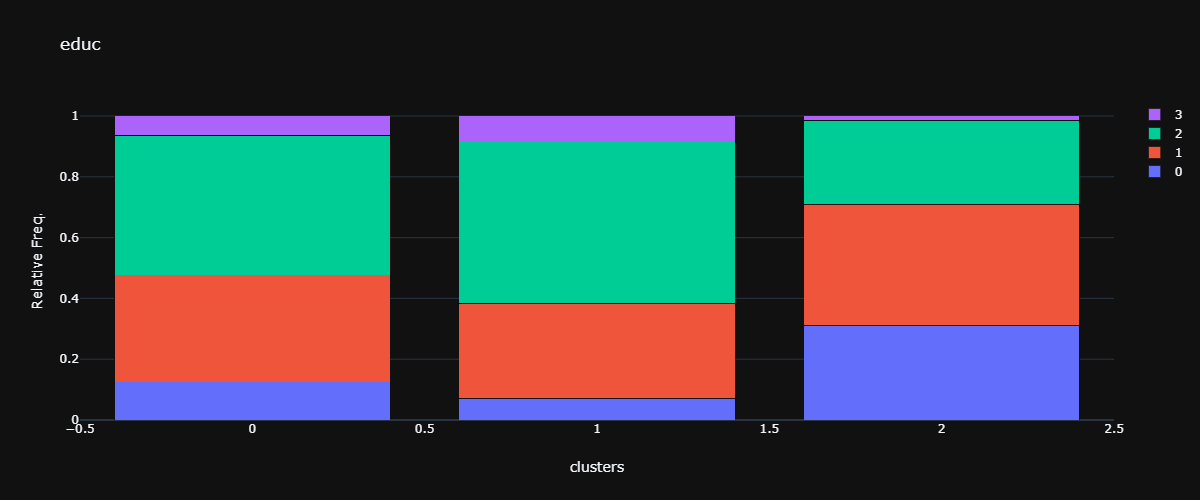
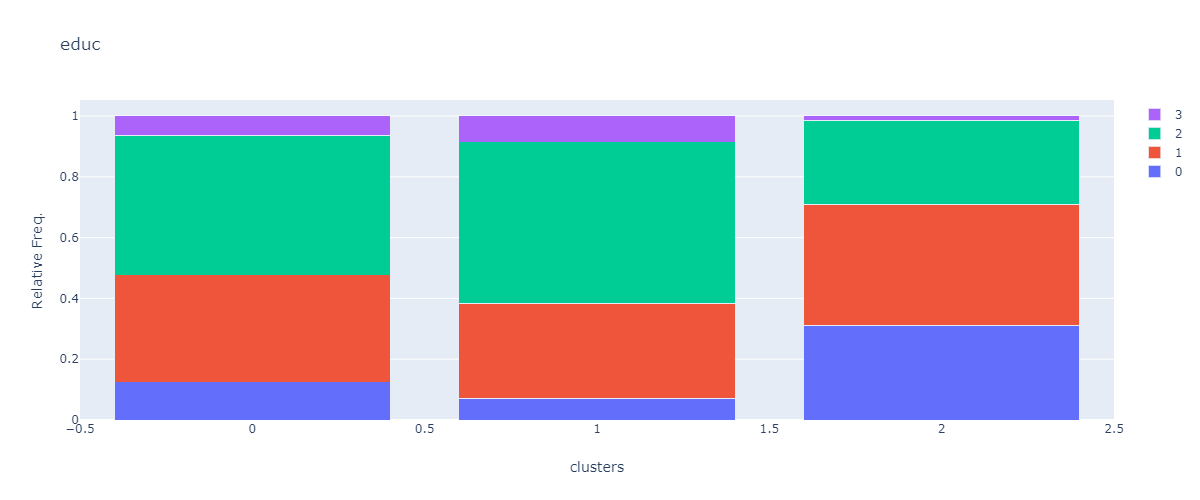
some graphical changes

diff --git a/profiling.py b/profiling.py
@@ -17,7 +17,9 @@ customer_related_cat = ['location','has_children', 'educ', 'cancelled_contracts'
 product_related_num = ["premium_motor","premium_household","premium_health","premium_life","premium_work_comp", "p_cluster"]
 
 customer_cluster = df[customer_related_num].groupby("c_cluster").mean()
+df["c_cluster"].value_counts()
 product_cluster = df[product_related_num].groupby("p_cluster").mean()
+df["p_cluster"].value_counts()
 #### Checking if clusters overlap
 ## create a table/Matrix
 cluster_matrix = pd.crosstab(df["p_cluster"], df["c_cluster"])
@@ -39,7 +41,7 @@ for i in df[categoricals]:
     for b in range(len(df[i].unique())):
         trace1 = go.Bar(x= df["c_cluster"].unique().sort(), y = (pd.crosstab(df[i], df["c_cluster"])/pd.crosstab(df[i], df["c_cluster"]).sum()).iloc[b,:], name = b) 
         data.append(trace1)
-    layout = go.Layout(title = i, template = "plotly_dark", xaxis=dict(title="clusters"), yaxis=dict(title="Relative Freq."))
+    layout = go.Layout(title = i, xaxis=dict(title="clusters"), yaxis=dict(title="Relative Freq."))
     fig = go.Figure(data = data, layout = layout)
     fig.update_layout(barmode = "stack")
     fig.write_image("images/profiling/"+i+".png",width=1200, height=500)
@@ -50,7 +52,7 @@ trace2=go.Bar(x= education.index, y = education.iloc[:,1], name = "HS")
 trace3=go.Bar(x= education.index, y = education.iloc[:,2], name = "BSc/MSc")
 trace4=go.Bar(x= education.index, y = education.iloc[:,3], name = "PhD")
 data = [trace1, trace2, trace3, trace4]
-layout = go.Layout(title = "Cluster and educ", template = "plotly_dark", xaxis=dict(title="Cluster"), yaxis=dict(title="Frequency"))
+layout = go.Layout(title = "Cluster and education", xaxis=dict(title="Cluster"), yaxis=dict(title="Frequency"))
 fig = go.Figure(data = data, layout = layout)
 fig.update_layout(barmode = "stack")
 
@@ -69,54 +71,15 @@ customer_cluster_prof = df_profiled[customer_related_num].groupby("c_cluster").m
 
 cluster_matrix_prof = pd.crosstab(df_profiled["c_cluster"], df_profiled["p_cluster"])
 
-### Moving clusters around 
+### Moving clusters around-> in this step, we move all of them around, but we don't keep it as a final solution
 df_profiled["p1_cluster"] = [1 if ((df_profiled.loc[i,"c_cluster"] == 0) | (df_profiled.loc[i,"c_cluster"] == 2))   else  0 for i in df_profiled.index.values]
 df_profiled.p1_cluster.value_counts()
 
-cluster_matrix_prof2 = pd.crosstab(df_profiled["c_cluster"], df_profiled["p_cluster"])
+cluster_matrix_prof2 = pd.crosstab(df_profiled["c_cluster"], df_profiled["p1_cluster"])
 
 product_centroids2= df_profiled[['premium_health', 'premium_household','premium_life', 'premium_motor', 'p1_cluster', 'premium_work_comp']].groupby("p1_cluster").mean()
 
 
-#Final decision tree
-from sklearn.tree import DecisionTreeClassifier
-from sklearn.model_selection import train_test_split 
-from sklearn import metrics 
-from sklearn.tree import export_graphviz
-from sklearn.externals.six import StringIO 
-import pydotplus
-import graphviz
-from sklearn import tree
-
-X = df_profiled[['salary_year', 'mon_value', 'claims_rate', 'premium_total']]
-y = df_profiled["c_cluster"]
-X_train, X_test, y_train, y_test = train_test_split(X, y, test_size=0.3, random_state=1) 
-
-clf = DecisionTreeClassifier(max_depth=4)
-# Fit model
-clf = clf.fit(X_train,y_train)
-#Predict the cluster for test data
-y_pred = clf.predict(X_test)
-print("Accuracy:",metrics.accuracy_score(y_test, y_pred))
-
-
-dot_data = tree.export_graphviz(clf, out_file=None,
-                                feature_names=X.columns.values,
-                                class_names = ['0','1', '3', '4'] ,
-                                filled=True,
-                                rounded=True,
-                                special_characters=True)  
-graph = graphviz.Source(dot_data)
-
-
-"""
-dot_data = StringIO()
-export_graphviz(clf, out_file=dot_data,  
-                filled=True,
-                special_characters=True,feature_names = X.columns.values,class_names=['0','1', '3', '4'])
-graph = pydotplus.graph_from_dot_data(dot_data.getvalue())  
-graph.write_png('decision_tree_cluster.png')
-"""
 
 ### Compute probability of each point to belong to the remaining clusters
 
@@ -147,13 +110,18 @@ customer_std_norm = df_profiled_norm[customer_related_num].groupby("c_cluster").
 product_std_norm = df_profiled_norm[product_related_num].groupby("p_cluster").std()
 
 from scipy.stats import norm
+
+#testing for loop
 norm.pdf(x = df_profiled_norm.loc[10251,"salary_year"],loc = customer_cluster_norm.iloc[0][0], scale = customer_std_norm.iloc[0][0])
 norm.pdf(x = df_profiled_norm.loc[10251,"salary_year"],loc = customer_cluster_norm.iloc[1][0], scale = customer_std_norm.iloc[1][0])
 norm.pdf(x = df_profiled_norm.loc[10251,"salary_year"],loc = customer_cluster_norm.iloc[2][0], scale = customer_std_norm.iloc[2][0])
 norm.pdf(x = df_profiled_norm.loc[10251,"salary_year"],loc = customer_cluster_norm.iloc[3][0], scale = customer_std_norm.iloc[3][0])
 
+
+#Creating df for customers we are moving around based on probability
 df_profiled_p_mov = df_profiled[((df_profiled["c_cluster"]==0)&(df_profiled["p_cluster"]==0))|((df_profiled["c_cluster"]==1)&(df_profiled["p_cluster"]==1))]
 
+#Computing mean and std
 cc_01 = customer_cluster_norm.iloc[0].append(product_cluster_norm.iloc[1])
 cc_10 = customer_cluster_norm.iloc[1].append(product_cluster_norm.iloc[0])
 cc_21 = customer_cluster_norm.iloc[2].append(product_cluster_norm.iloc[1])
@@ -194,9 +162,57 @@ for i in df_profiled_p_mov.index:
 df_profiled_p_mov.new_cluster.value_counts()
 cross_test = pd.crosstab(df_profiled_p_mov["new_cluster"], df_profiled_p_mov["p_cluster"])
 
-df_profiled["c2_cluster"] = [ccpc[int(df_profiled_p_mov.loc[c, "new_cluster"])][0]  if c in df_profiled_p_mov.index.values else df_profiled.loc[c,"c_cluster"] for c in df_profiled.index.values]
+df_profiled["c2_cluster"] = [ccpc[int(df_profiled_p_mov.loc[10252, "new_cluster"])][0]  if c in df_profiled_p_mov.index.values else df_profiled.loc[c,"c_cluster"] for c in df_profiled.index.values]
 df_profiled["p2_cluster"] = [ccpc[int(df_profiled_p_mov.loc[c, "new_cluster"])][1]  if c in df_profiled_p_mov.index.values else df_profiled.loc[c,"p1_cluster"] for c in df_profiled.index.values]
 
 cluster_matrix_prof_final = pd.crosstab(df_profiled["c2_cluster"], df_profiled["p2_cluster"])
 
-#CHANGE TREE TO HERE 
+
+#Final decision tree
+from sklearn.tree import DecisionTreeClassifier
+from sklearn.model_selection import train_test_split 
+from sklearn import metrics 
+from sklearn.tree import export_graphviz
+from sklearn.externals.six import StringIO 
+import pydotplus
+import graphviz
+from sklearn import tree
+
+X = df_profiled[['salary_year', 'mon_value', 'claims_rate', 'premium_total',"premium_motor","premium_household","premium_health","premium_life","premium_work_comp","is_profit"]]
+y = df_profiled["c2_cluster"]
+X_train, X_test, y_train, y_test = train_test_split(X, y, test_size=0.3, random_state=1) 
+
+clf = DecisionTreeClassifier(max_depth=4)
+# Fit model
+clf = clf.fit(X_train,y_train)
+#Predict the cluster for test data
+y_pred = clf.predict(X_test)
+print("Accuracy:",metrics.accuracy_score(y_test, y_pred))
+
+
+dot_data = tree.export_graphviz(clf, out_file=None,
+                                feature_names=X.columns.values,
+                                class_names = ['0','1', '3', '4'] ,
+                                filled=True,
+                                rounded=True,
+                                special_characters=True)  
+graph = graphviz.Source(dot_data)
+
+dot_data = StringIO()
+export_graphviz(clf, out_file=dot_data,  
+                filled=True,
+                special_characters=True,feature_names = X.columns.values,class_names=['0','1', '3', '4'])
+graph = pydotplus.graph_from_dot_data(dot_data.getvalue())  
+graph.write_png('decision_tree_cluster_final.png')
+
+
+#For reference only
+for i in df[categoricals]:
+    data = []
+    for b in range(len(df[i].unique())):
+        trace1 = go.Bar(x= df_profiled["c2_cluster"].unique().sort(), y = (pd.crosstab(df[i], df_profiled["c2_cluster"])/pd.crosstab(df[i], df_profiled["c2_cluster"]).sum()).iloc[b,:], name = b) 
+        data.append(trace1)
+    layout = go.Layout(title = i, xaxis=dict(title="clusters"), yaxis=dict(title="Relative Freq."))
+    fig = go.Figure(data = data, layout = layout)
+    fig.update_layout(barmode = "stack")
+    fig.write_image("images/profiling/final/"+i+"2"+".png",width=1200, height=500)
